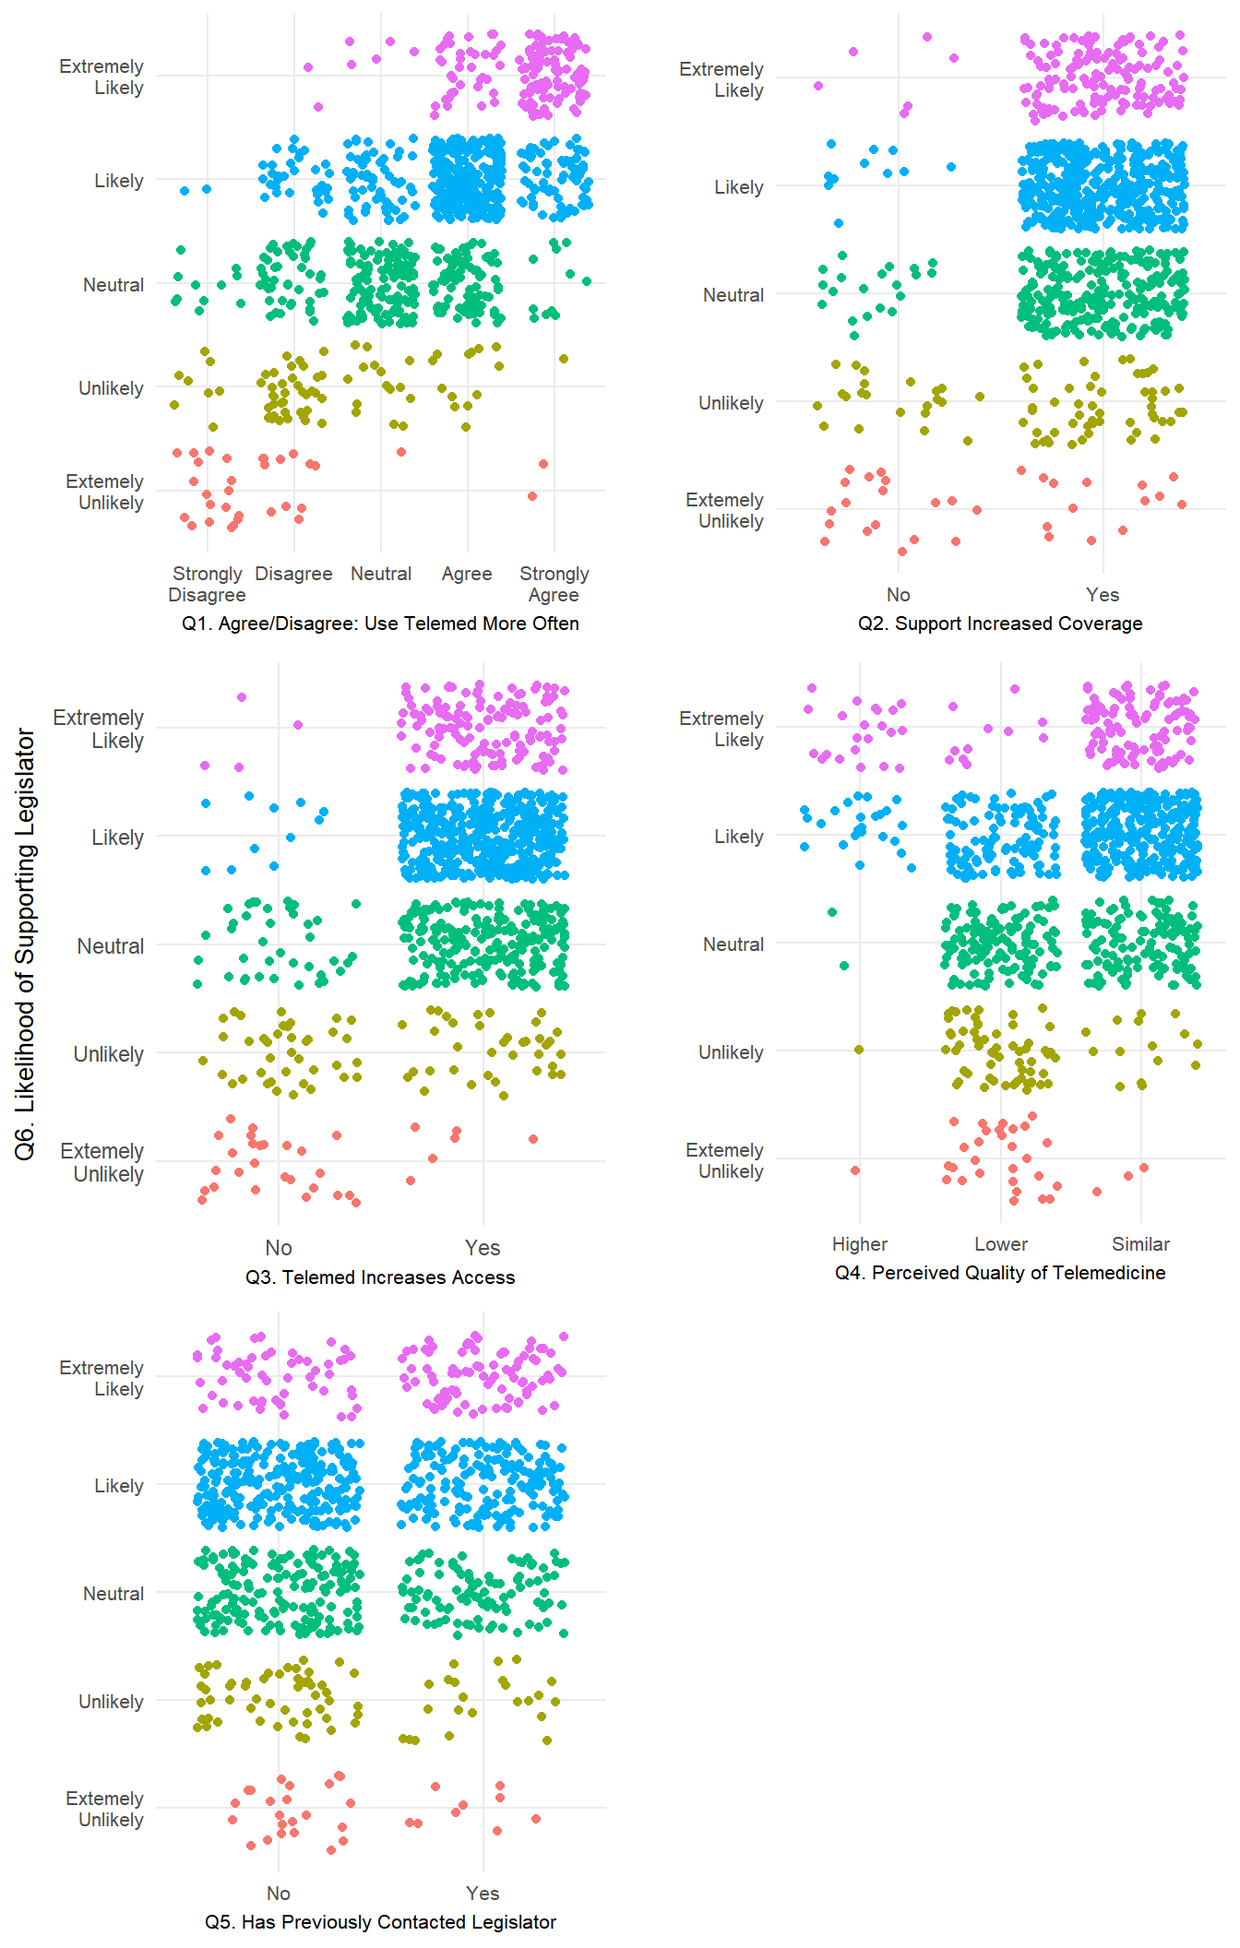
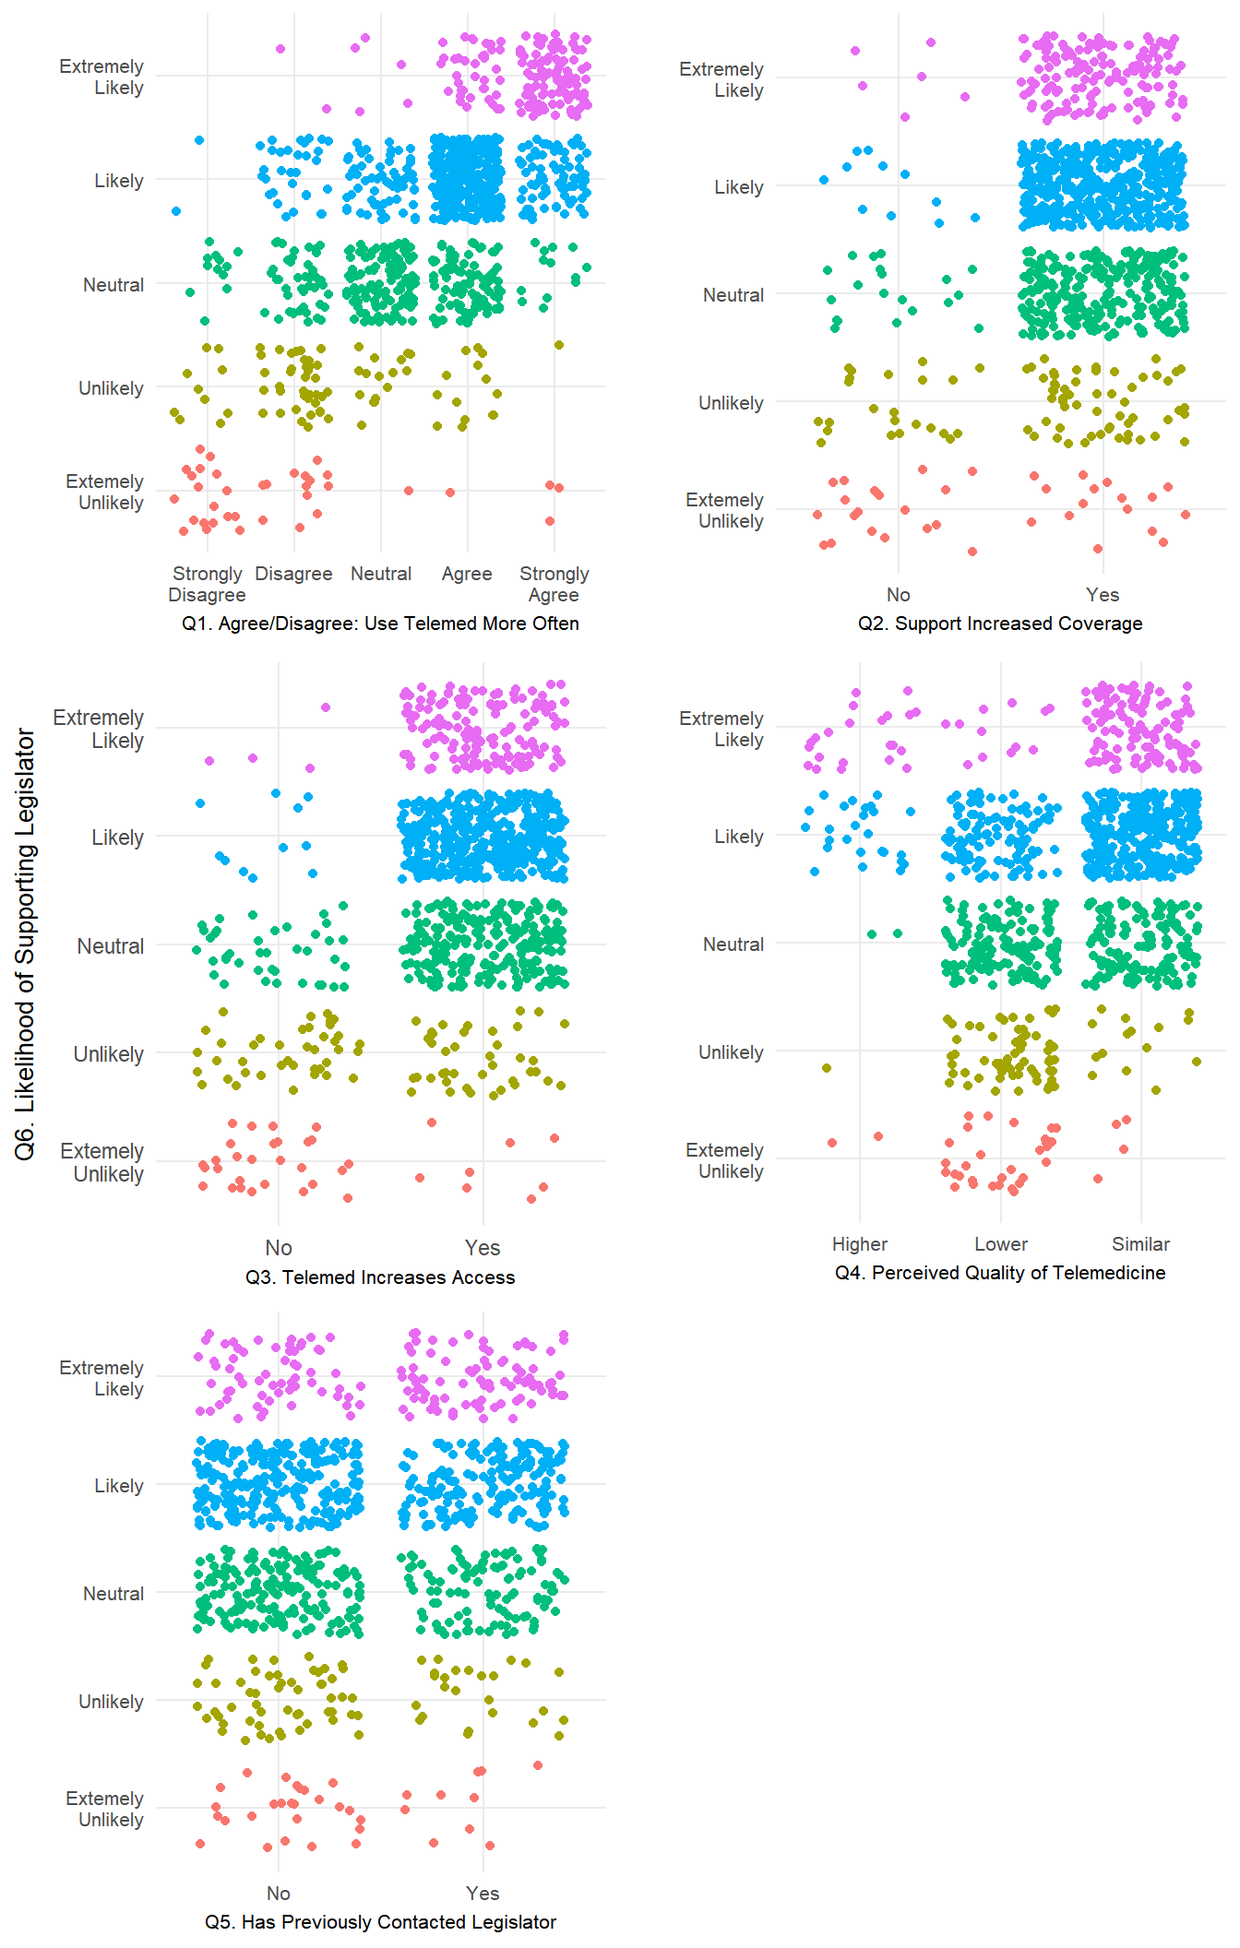
updated

diff --git a/HMP/TelemedicineSurvey/index.html b/HMP/TelemedicineSurvey/index.html
@@ -264,7 +264,7 @@ div.tocify {
 <h2>Distribution</h2>
 <p>We created two different versions of this survey to distribute to our existing Mailchimp email list and more broadly to Facebook via advertising. The surveys were identical except for an email capture element included on the Facebook version of the survey.</p>
 <center>
-<strong>Total Completes = 963</strong>
+<strong>Total Completes = 1015</strong>
 </center>
 <div id="email" class="section level3">
 <h3>Email</h3>
@@ -295,7 +295,7 @@ Completions
 <b>10% Sample</b><br>(1,831 emails)
 </td>
 <td style="text-align:center;">
-355<br>(19.4%)
+356<br>(19.4%)
 </td>
 <td style="text-align:center;border-right:1px solid;">
 61<br>(3.3%)
@@ -312,16 +312,16 @@ Completions
 <b>90% Sample</b><br>(16,535 emails)
 </td>
 <td style="text-align:center;">
-3,578<br>(21.6%)
+3,596<br>(21.7%)
 </td>
 <td style="text-align:center;border-right:1px solid;">
-562<br>(3.4%)
+565<br>(3.4%)
 </td>
 <td style="text-align:center;">
-548
+551
 </td>
 <td style="text-align:center;">
-439<br>(78.1%)
+441<br>(80.0%)
 </td>
 </tr>
 <tr>
@@ -329,16 +329,16 @@ Completions
 <b>Total</b><br>(18,366 emails)
 </td>
 <td style="text-align:center;">
-3,897<br>(21.4%
+3,952<br>(21.5%
 </td>
 <td style="text-align:center;border-right:1px solid;">
 623<br>(3.4%)
 </td>
 <td style="text-align:center;">
-602
+605
 </td>
 <td style="text-align:center;">
-482<br>(79.3%)
+484<br>(80.0%)
 </td>
 </tr>
 </tbody>
@@ -346,9 +346,9 @@ Completions
 </div>
 <div id="facebook" class="section level3">
 <h3>Facebook</h3>
-<p>For the Facebook version, we advertised the survey over six days, from February 2nd to February 8th. Out of 1,629 survey starts, we received 481 completions - which corresponds to a 29.5% completion rate.</p>
-<div id="htmlwidget-36d18e05502c0f7b64bc" style="width:100%;height:500px;" class="highchart html-widget"></div>
-<script type="application/json" data-for="htmlwidget-36d18e05502c0f7b64bc">{"x":{"hc_opts":{"title":{"text":"Facebook Completes"},"yAxis":[{"title":{"text":null}},{"showLastLabel":false,"opposite":true,"title":{"text":null}}],"credits":{"enabled":false},"exporting":{"enabled":false},"plotOptions":{"series":{"turboThreshold":0,"showInLegend":false,"marker":{"enabled":true}},"treemap":{"layoutAlgorithm":"squarified"},"bubble":{"minSize":5,"maxSize":25},"scatter":{"marker":{"symbol":"circle"}}},"annotationsOptions":{"enabledButtons":false},"tooltip":{"delayForDisplay":10},"series":[{"group":"group","data":[{"Started.At":"2018-02-02","count":69,"c_count":71,"x":1517529600000,"y":69,"color":"#B3D4E8"},{"Started.At":"2018-02-03","count":78,"c_count":149,"x":1517616000000,"y":78,"color":"#79B2D5"},{"Started.At":"2018-02-04","count":89,"c_count":238,"x":1517702400000,"y":89,"color":"#3182BD"},{"Started.At":"2018-02-05","count":64,"c_count":302,"x":1517788800000,"y":64,"color":"#C8E0EF"},{"Started.At":"2018-02-06","count":84,"c_count":386,"x":1517875200000,"y":84,"color":"#559AC9"},{"Started.At":"2018-02-07","count":72,"c_count":458,"x":1517961600000,"y":72,"color":"#9ECAE1"},{"Started.At":"2018-02-08","count":23,"c_count":481,"x":1518048000000,"y":23,"color":"#DEEBF7"}],"type":"column","name":"Completed"},{"group":"group","data":[{"Started.At":"2018-02-02","count":69,"c_count":71,"x":1517529600000,"y":71,"color":"#FEE0D2"},{"Started.At":"2018-02-03","count":78,"c_count":149,"x":1517616000000,"y":149,"color":"#FDC6B2"},{"Started.At":"2018-02-04","count":89,"c_count":238,"x":1517702400000,"y":238,"color":"#FCAC92"},{"Started.At":"2018-02-05","count":64,"c_count":302,"x":1517788800000,"y":302,"color":"#FC9272"},{"Started.At":"2018-02-06","count":84,"c_count":386,"x":1517875200000,"y":386,"color":"#F27058"},{"Started.At":"2018-02-07","count":72,"c_count":458,"x":1517961600000,"y":458,"color":"#E84E3F"},{"Started.At":"2018-02-08","count":23,"c_count":481,"x":1518048000000,"y":481,"color":"#DE2D26"}],"type":"line","lineColor":"#FB6A4A","name":"Cumulative","yAxis":1}],"xAxis":{"type":"datetime","title":""}},"theme":{"colors":["#d35400","#2980b9","#2ecc71","#f1c40f","#2c3e50","#7f8c8d"],"chart":{"style":{"fontFamily":"Roboto"}},"title":{"align":"left","style":{"fontFamily":"Roboto Condensed","fontWeight":"bold"}},"subtitle":{"align":"left","style":{"fontFamily":"Roboto Condensed"}},"legend":{"align":"right","verticalAlign":"bottom"},"xAxis":{"gridLineWidth":1,"gridLineColor":"#F3F3F3","lineColor":"#F3F3F3","minorGridLineColor":"#F3F3F3","tickColor":"#F3F3F3","tickWidth":1},"yAxis":{"gridLineColor":"#F3F3F3","lineColor":"#F3F3F3","minorGridLineColor":"#F3F3F3","tickColor":"#F3F3F3","tickWidth":1},"plotOptions":{"line":{"marker":{"enabled":false},"states":{"hover":{"lineWidthPlus":1}}},"spline":{"marker":{"enabled":false},"states":{"hover":{"lineWidthPlus":1}}},"area":{"marker":{"enabled":false},"states":{"hover":{"lineWidthPlus":1}}},"areaspline":{"marker":{"enabled":false},"states":{"hover":{"lineWidthPlus":1}}}}},"conf_opts":{"global":{"Date":null,"VMLRadialGradientURL":"http =//code.highcharts.com/list(version)/gfx/vml-radial-gradient.png","canvasToolsURL":"http =//code.highcharts.com/list(version)/modules/canvas-tools.js","getTimezoneOffset":null,"timezoneOffset":0,"useUTC":true},"lang":{"contextButtonTitle":"Chart context menu","decimalPoint":".","downloadJPEG":"Download JPEG image","downloadPDF":"Download PDF document","downloadPNG":"Download PNG image","downloadSVG":"Download SVG vector image","drillUpText":"Back to {series.name}","invalidDate":null,"loading":"Loading...","months":["January","February","March","April","May","June","July","August","September","October","November","December"],"noData":"No data to display","numericSymbols":["k","M","G","T","P","E"],"printChart":"Print chart","resetZoom":"Reset zoom","resetZoomTitle":"Reset zoom level 1:1","shortMonths":["Jan","Feb","Mar","Apr","May","Jun","Jul","Aug","Sep","Oct","Nov","Dec"],"thousandsSep":" ","weekdays":["Sunday","Monday","Tuesday","Wednesday","Thursday","Friday","Saturday"]}},"type":"chart","fonts":["Roboto","Roboto+Condensed"],"debug":false},"evals":[],"jsHooks":[]}</script>
+<p>For the Facebook version, we advertised the survey over six days, from February 2nd to February 8th. Out of 1,842 survey starts, we received 531 completions - which corresponds to a 28.8% completion rate.</p>
+<div id="htmlwidget-cfcecb611d7d7e0ca5f7" style="width:100%;height:500px;" class="highchart html-widget"></div>
+<script type="application/json" data-for="htmlwidget-cfcecb611d7d7e0ca5f7">{"x":{"hc_opts":{"title":{"text":"Facebook Completes"},"yAxis":[{"title":{"text":null}},{"showLastLabel":false,"opposite":true,"title":{"text":null}}],"credits":{"enabled":false},"exporting":{"enabled":false},"plotOptions":{"series":{"turboThreshold":0,"showInLegend":false,"marker":{"enabled":true}},"treemap":{"layoutAlgorithm":"squarified"},"bubble":{"minSize":5,"maxSize":25},"scatter":{"marker":{"symbol":"circle"}}},"annotationsOptions":{"enabledButtons":false},"tooltip":{"delayForDisplay":10},"series":[{"group":"group","data":[{"Started.At":"2018-02-02","count":69,"c_count":71,"x":1517529600000,"y":69,"color":"#A7CEE4"},{"Started.At":"2018-02-03","count":78,"c_count":149,"x":1517616000000,"y":78,"color":"#6FABD1"},{"Started.At":"2018-02-04","count":89,"c_count":238,"x":1517702400000,"y":89,"color":"#3182BD"},{"Started.At":"2018-02-05","count":64,"c_count":302,"x":1517788800000,"y":64,"color":"#B9D8EA"},{"Started.At":"2018-02-06","count":84,"c_count":386,"x":1517875200000,"y":84,"color":"#5096C7"},{"Started.At":"2018-02-07","count":72,"c_count":458,"x":1517961600000,"y":72,"color":"#8EBFDB"},{"Started.At":"2018-02-08","count":49,"c_count":507,"x":1518048000000,"y":49,"color":"#CBE1F0"},{"Started.At":"2018-02-09","count":24,"c_count":531,"x":1518134400000,"y":24,"color":"#DEEBF7"}],"type":"column","name":"Completed"},{"group":"group","data":[{"Started.At":"2018-02-02","count":69,"c_count":71,"x":1517529600000,"y":71,"color":"#FEE0D2"},{"Started.At":"2018-02-03","count":78,"c_count":149,"x":1517616000000,"y":149,"color":"#FDC9B6"},{"Started.At":"2018-02-04","count":89,"c_count":238,"x":1517702400000,"y":238,"color":"#FCB39B"},{"Started.At":"2018-02-05","count":64,"c_count":302,"x":1517788800000,"y":302,"color":"#FC9D7F"},{"Started.At":"2018-02-06","count":84,"c_count":386,"x":1517875200000,"y":386,"color":"#F78367"},{"Started.At":"2018-02-07","count":72,"c_count":458,"x":1517961600000,"y":458,"color":"#EF6651"},{"Started.At":"2018-02-08","count":49,"c_count":507,"x":1518048000000,"y":507,"color":"#E6493B"},{"Started.At":"2018-02-09","count":24,"c_count":531,"x":1518134400000,"y":531,"color":"#DE2D26"}],"type":"line","lineColor":"#FB6A4A","name":"Cumulative","yAxis":1}],"xAxis":{"type":"datetime","title":""}},"theme":{"colors":["#d35400","#2980b9","#2ecc71","#f1c40f","#2c3e50","#7f8c8d"],"chart":{"style":{"fontFamily":"Roboto"}},"title":{"align":"left","style":{"fontFamily":"Roboto Condensed","fontWeight":"bold"}},"subtitle":{"align":"left","style":{"fontFamily":"Roboto Condensed"}},"legend":{"align":"right","verticalAlign":"bottom"},"xAxis":{"gridLineWidth":1,"gridLineColor":"#F3F3F3","lineColor":"#F3F3F3","minorGridLineColor":"#F3F3F3","tickColor":"#F3F3F3","tickWidth":1},"yAxis":{"gridLineColor":"#F3F3F3","lineColor":"#F3F3F3","minorGridLineColor":"#F3F3F3","tickColor":"#F3F3F3","tickWidth":1},"plotOptions":{"line":{"marker":{"enabled":false},"states":{"hover":{"lineWidthPlus":1}}},"spline":{"marker":{"enabled":false},"states":{"hover":{"lineWidthPlus":1}}},"area":{"marker":{"enabled":false},"states":{"hover":{"lineWidthPlus":1}}},"areaspline":{"marker":{"enabled":false},"states":{"hover":{"lineWidthPlus":1}}}}},"conf_opts":{"global":{"Date":null,"VMLRadialGradientURL":"http =//code.highcharts.com/list(version)/gfx/vml-radial-gradient.png","canvasToolsURL":"http =//code.highcharts.com/list(version)/modules/canvas-tools.js","getTimezoneOffset":null,"timezoneOffset":0,"useUTC":true},"lang":{"contextButtonTitle":"Chart context menu","decimalPoint":".","downloadJPEG":"Download JPEG image","downloadPDF":"Download PDF document","downloadPNG":"Download PNG image","downloadSVG":"Download SVG vector image","drillUpText":"Back to {series.name}","invalidDate":null,"loading":"Loading...","months":["January","February","March","April","May","June","July","August","September","October","November","December"],"noData":"No data to display","numericSymbols":["k","M","G","T","P","E"],"printChart":"Print chart","resetZoom":"Reset zoom","resetZoomTitle":"Reset zoom level 1:1","shortMonths":["Jan","Feb","Mar","Apr","May","Jun","Jul","Aug","Sep","Oct","Nov","Dec"],"thousandsSep":" ","weekdays":["Sunday","Monday","Tuesday","Wednesday","Thursday","Friday","Saturday"]}},"type":"chart","fonts":["Roboto","Roboto+Condensed"],"debug":false},"evals":[],"jsHooks":[]}</script>
 </div>
 </div>
 </div>
@@ -450,8 +450,8 @@ Yes, No
 <p><img src="index_files/figure-html/rf_graphs-1.png" width="3000" style="display: block; margin: auto;" /></p>
 <p>Below I create a model with smaller number of categories. I group together “Extremely Unlikely” and “Unlikely” as well as “Extremely Likely” and “Likely”:</p>
 <p><img src="index_files/figure-html/simple-1.png" width="3000" style="display: block; margin: auto;" /></p>
-<div id="htmlwidget-09cdeb358964cbcbecef" style="width:100%;height:500px;" class="highchart html-widget"></div>
-<script type="application/json" data-for="htmlwidget-09cdeb358964cbcbecef">{"x":{"hc_opts":{"title":{"text":"Variable Importances"},"yAxis":{"title":{"text":"Importance (Marginal Accuracy)"},"type":"linear"},"credits":{"enabled":false},"exporting":{"enabled":false},"plotOptions":{"series":{"turboThreshold":0,"showInLegend":false,"marker":{"enabled":true}},"treemap":{"layoutAlgorithm":"squarified"},"bubble":{"minSize":5,"maxSize":25},"scatter":{"marker":{"symbol":"circle"}}},"annotationsOptions":{"enabledButtons":false},"tooltip":{"delayForDisplay":10},"series":[{"group":"group","data":[{"Unlikely":0.239967215162823,"Neutral":0.181551299363212,"Likely":0.1063578063443,"MeanDecreaseAccuracy":0.14194411151034,"MeanDecreaseGini":96.7727673922111,"y":0.142,"color":"#08519C","name":"UseTM"},{"Unlikely":0.273555608846192,"Neutral":-0.0276202585603816,"Likely":0.0278052921820753,"MeanDecreaseAccuracy":0.0395314787675384,"MeanDecreaseGini":18.9006469543789,"y":0.04,"color":"#3182BD","name":"Covered"},{"Unlikely":0.186445581480734,"Neutral":0.0316386173577762,"Likely":-0.00230340536492984,"MeanDecreaseAccuracy":0.0280702062390308,"MeanDecreaseGini":24.1677370042231,"y":0.028,"color":"#6BAED6","name":"Access"},{"Unlikely":0.104351461572038,"Neutral":-0.00969947618506452,"Likely":0.0121973117323167,"MeanDecreaseAccuracy":0.0164288872261142,"MeanDecreaseGini":10.744348865606,"y":0.016,"color":"#BDD7E7","name":"Quality"},{"Unlikely":0.0256201751215236,"Neutral":0.0191852195854549,"Likely":0.00329982302645779,"MeanDecreaseAccuracy":0.0102482883089296,"MeanDecreaseGini":9.78367948028758,"y":0.01,"color":"#EFF3FF","name":"ContactLeg"}],"type":"bar","name":"Importance"}],"xAxis":{"type":"category","title":{"text":""}}},"theme":{"colors":["#d35400","#2980b9","#2ecc71","#f1c40f","#2c3e50","#7f8c8d"],"chart":{"style":{"fontFamily":"Roboto"}},"title":{"align":"left","style":{"fontFamily":"Roboto Condensed","fontWeight":"bold"}},"subtitle":{"align":"left","style":{"fontFamily":"Roboto Condensed"}},"legend":{"align":"right","verticalAlign":"bottom"},"xAxis":{"gridLineWidth":1,"gridLineColor":"#F3F3F3","lineColor":"#F3F3F3","minorGridLineColor":"#F3F3F3","tickColor":"#F3F3F3","tickWidth":1},"yAxis":{"gridLineColor":"#F3F3F3","lineColor":"#F3F3F3","minorGridLineColor":"#F3F3F3","tickColor":"#F3F3F3","tickWidth":1},"plotOptions":{"line":{"marker":{"enabled":false},"states":{"hover":{"lineWidthPlus":1}}},"spline":{"marker":{"enabled":false},"states":{"hover":{"lineWidthPlus":1}}},"area":{"marker":{"enabled":false},"states":{"hover":{"lineWidthPlus":1}}},"areaspline":{"marker":{"enabled":false},"states":{"hover":{"lineWidthPlus":1}}}}},"conf_opts":{"global":{"Date":null,"VMLRadialGradientURL":"http =//code.highcharts.com/list(version)/gfx/vml-radial-gradient.png","canvasToolsURL":"http =//code.highcharts.com/list(version)/modules/canvas-tools.js","getTimezoneOffset":null,"timezoneOffset":0,"useUTC":true},"lang":{"contextButtonTitle":"Chart context menu","decimalPoint":".","downloadJPEG":"Download JPEG image","downloadPDF":"Download PDF document","downloadPNG":"Download PNG image","downloadSVG":"Download SVG vector image","drillUpText":"Back to {series.name}","invalidDate":null,"loading":"Loading...","months":["January","February","March","April","May","June","July","August","September","October","November","December"],"noData":"No data to display","numericSymbols":["k","M","G","T","P","E"],"printChart":"Print chart","resetZoom":"Reset zoom","resetZoomTitle":"Reset zoom level 1:1","shortMonths":["Jan","Feb","Mar","Apr","May","Jun","Jul","Aug","Sep","Oct","Nov","Dec"],"thousandsSep":" ","weekdays":["Sunday","Monday","Tuesday","Wednesday","Thursday","Friday","Saturday"]}},"type":"chart","fonts":["Roboto","Roboto+Condensed"],"debug":false},"evals":[],"jsHooks":[]}</script>
+<div id="htmlwidget-b5b7c7a5fcc1aaed5d22" style="width:100%;height:500px;" class="highchart html-widget"></div>
+<script type="application/json" data-for="htmlwidget-b5b7c7a5fcc1aaed5d22">{"x":{"hc_opts":{"title":{"text":"Variable Importances"},"yAxis":{"title":{"text":"Importance (Marginal Accuracy)"},"type":"linear"},"credits":{"enabled":false},"exporting":{"enabled":false},"plotOptions":{"series":{"turboThreshold":0,"showInLegend":false,"marker":{"enabled":true}},"treemap":{"layoutAlgorithm":"squarified"},"bubble":{"minSize":5,"maxSize":25},"scatter":{"marker":{"symbol":"circle"}}},"annotationsOptions":{"enabledButtons":false},"tooltip":{"delayForDisplay":10},"series":[{"group":"group","data":[{"Unlikely":0.237249002439277,"Neutral":0.170654509141727,"Likely":0.105287923191093,"MeanDecreaseAccuracy":0.138486774619913,"MeanDecreaseGini":96.597374442968,"y":0.138,"color":"#08519C","name":"UseTM"},{"Unlikely":0.251666787922962,"Neutral":-0.0268095461624653,"Likely":0.0278338656654998,"MeanDecreaseAccuracy":0.0378752711689946,"MeanDecreaseGini":18.7242697747388,"y":0.038,"color":"#3182BD","name":"Covered"},{"Unlikely":0.173851615042246,"Neutral":0.0314798176147991,"Likely":-0.00203079435068881,"MeanDecreaseAccuracy":0.0275031503460784,"MeanDecreaseGini":24.2418485207813,"y":0.028,"color":"#6BAED6","name":"Access"},{"Unlikely":0.118110005058919,"Neutral":-0.0112705691733071,"Likely":0.011906505342235,"MeanDecreaseAccuracy":0.0175645448739512,"MeanDecreaseGini":11.5606463123454,"y":0.018,"color":"#BDD7E7","name":"Quality"},{"Unlikely":0.0198180305482566,"Neutral":0.0165835040820768,"Likely":0.00286396947792075,"MeanDecreaseAccuracy":0.00864753322904653,"MeanDecreaseGini":9.65534281041509,"y":0.009,"color":"#EFF3FF","name":"ContactLeg"}],"type":"bar","name":"Importance"}],"xAxis":{"type":"category","title":{"text":""}}},"theme":{"colors":["#d35400","#2980b9","#2ecc71","#f1c40f","#2c3e50","#7f8c8d"],"chart":{"style":{"fontFamily":"Roboto"}},"title":{"align":"left","style":{"fontFamily":"Roboto Condensed","fontWeight":"bold"}},"subtitle":{"align":"left","style":{"fontFamily":"Roboto Condensed"}},"legend":{"align":"right","verticalAlign":"bottom"},"xAxis":{"gridLineWidth":1,"gridLineColor":"#F3F3F3","lineColor":"#F3F3F3","minorGridLineColor":"#F3F3F3","tickColor":"#F3F3F3","tickWidth":1},"yAxis":{"gridLineColor":"#F3F3F3","lineColor":"#F3F3F3","minorGridLineColor":"#F3F3F3","tickColor":"#F3F3F3","tickWidth":1},"plotOptions":{"line":{"marker":{"enabled":false},"states":{"hover":{"lineWidthPlus":1}}},"spline":{"marker":{"enabled":false},"states":{"hover":{"lineWidthPlus":1}}},"area":{"marker":{"enabled":false},"states":{"hover":{"lineWidthPlus":1}}},"areaspline":{"marker":{"enabled":false},"states":{"hover":{"lineWidthPlus":1}}}}},"conf_opts":{"global":{"Date":null,"VMLRadialGradientURL":"http =//code.highcharts.com/list(version)/gfx/vml-radial-gradient.png","canvasToolsURL":"http =//code.highcharts.com/list(version)/modules/canvas-tools.js","getTimezoneOffset":null,"timezoneOffset":0,"useUTC":true},"lang":{"contextButtonTitle":"Chart context menu","decimalPoint":".","downloadJPEG":"Download JPEG image","downloadPDF":"Download PDF document","downloadPNG":"Download PNG image","downloadSVG":"Download SVG vector image","drillUpText":"Back to {series.name}","invalidDate":null,"loading":"Loading...","months":["January","February","March","April","May","June","July","August","September","October","November","December"],"noData":"No data to display","numericSymbols":["k","M","G","T","P","E"],"printChart":"Print chart","resetZoom":"Reset zoom","resetZoomTitle":"Reset zoom level 1:1","shortMonths":["Jan","Feb","Mar","Apr","May","Jun","Jul","Aug","Sep","Oct","Nov","Dec"],"thousandsSep":" ","weekdays":["Sunday","Monday","Tuesday","Wednesday","Thursday","Friday","Saturday"]}},"type":"chart","fonts":["Roboto","Roboto+Condensed"],"debug":false},"evals":[],"jsHooks":[]}</script>
 <p>According to the model, the most predictive variables out of all those that we tested is <strong>UseTM</strong>, which measures the extent to which the respondent would opt for using telemedicine services more often. The mean increase in accuracy of the model in predicting <strong>SupportLeg</strong> is ten times greater for <strong>UseTM</strong> than any other variable.</p>
 <p>Using <strong>UseTM</strong>, We can accurately classify ~80% of respondents as either unlikely or likely to support a legislator who endorses increased access to telemedicine services.</p>
 </div>
